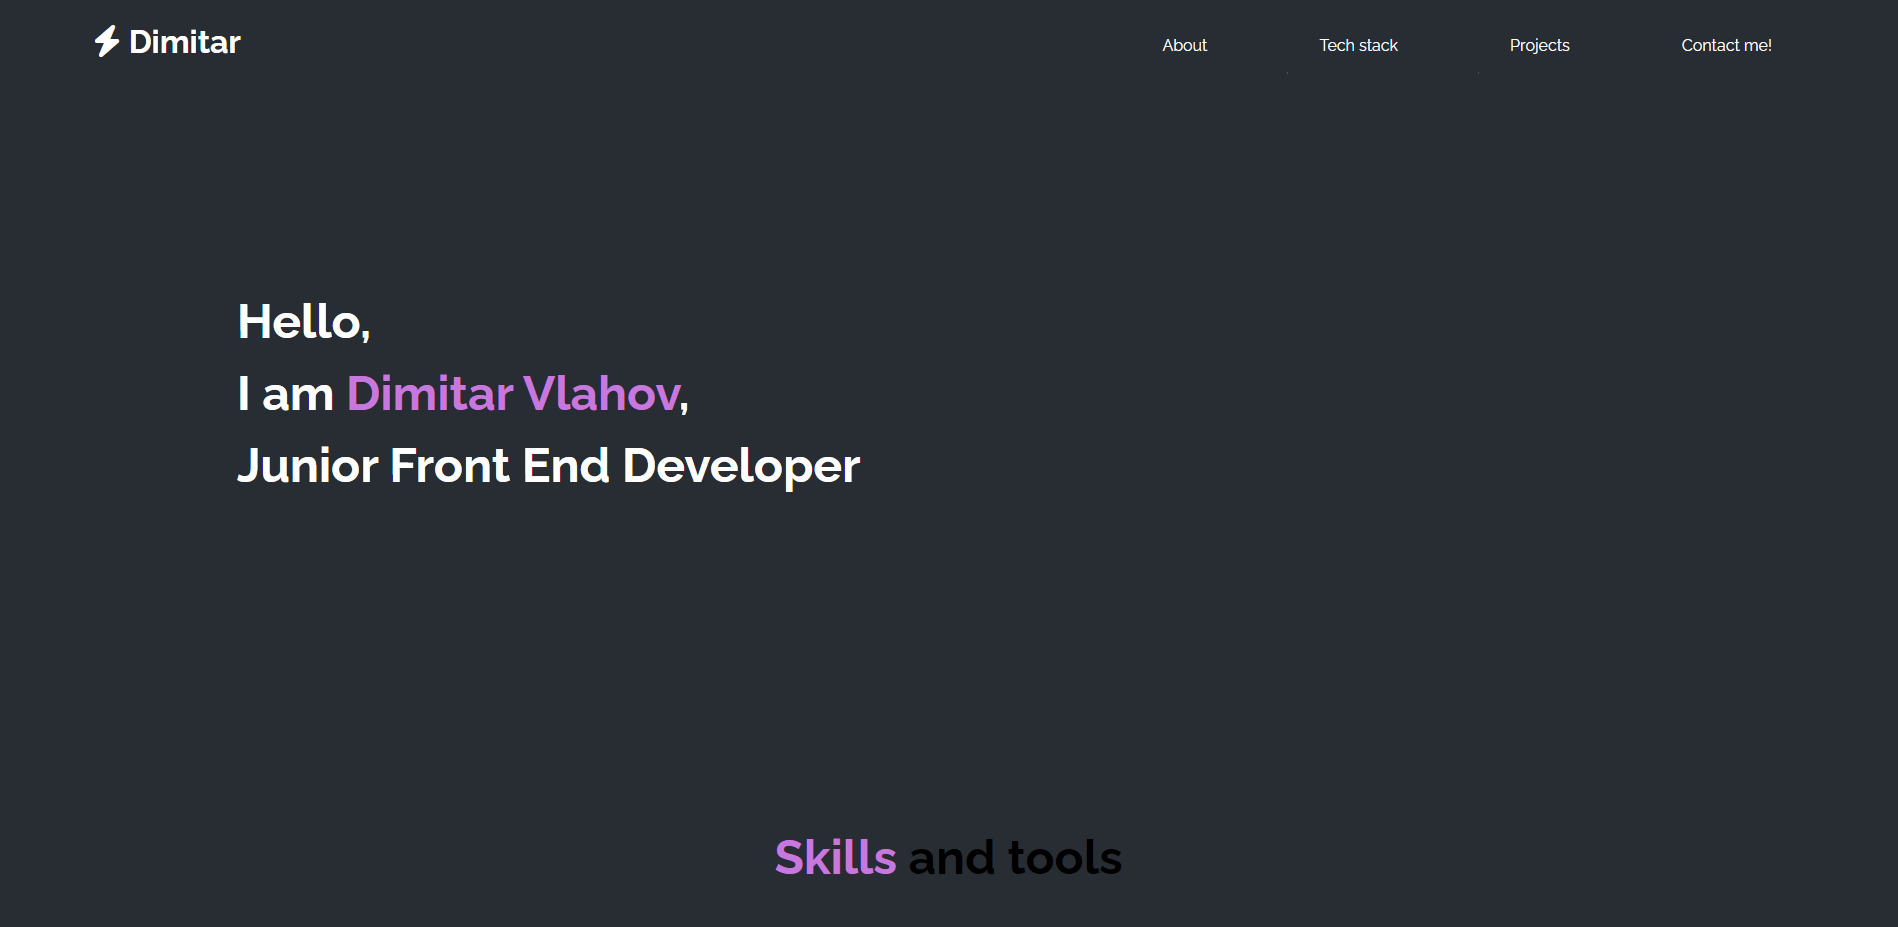
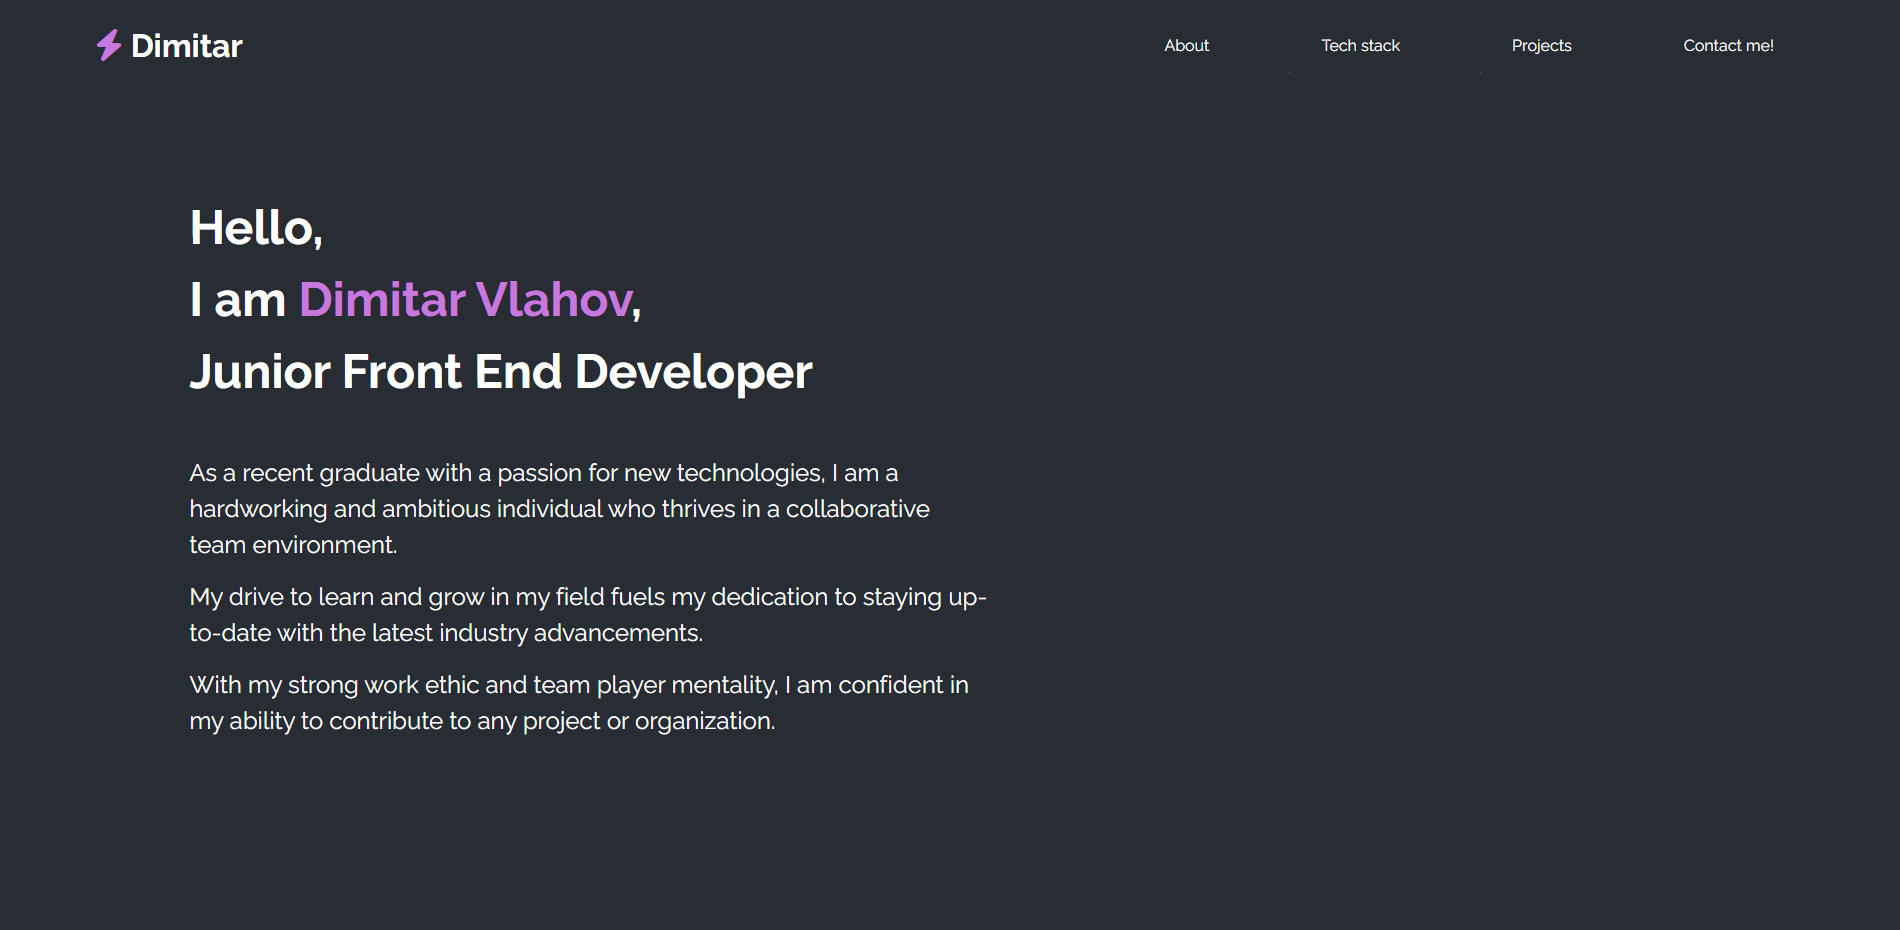
.

diff --git a/src/components/Projects.jsx b/src/components/Projects.jsx
@@ -68,7 +68,6 @@ const Projects = () => {
         }
         {showDetails === 'thirdImage' &&
           <div className={classes['info-card']}>
-            <p>Lorem ipsum dolor sit amet consectetur adipisicing elit. Quis maiores suscipit distinctio asperiores, exercitationem fugiat consequatur. Ab odio praesentium earum nisi itaque quis ullam, hic alias id, tenetur eveniet sunt.</p>
             <div className={classes['link-wrapper']}>
               <a href="https://github.com/VlahOff/PersonalPortfolio" target="_blank" className={classes.link}>View repository</a>
             </div>
@@ -76,7 +75,7 @@ const Projects = () => {
         }
         {showDetails === 'fourthImage' &&
           <div className={classes['info-card']}>
-            <p>Lorem ipsum dolor sit amet consectetur adipisicing elit. Quis maiores suscipit distinctio asperiores, exercitationem fugiat consequatur. Ab odio praesentium earum nisi itaque quis ullam, hic alias id, tenetur eveniet sunt.</p>
+            <p>This is a small and simple website for searching information about movies it has a clean and easy-to-use interface, with a search bar prominently displayed on top. Users could enter the name of a movie they are interested in and the website would display relevant information such as the plot summary, cast and crew, release date, and ratings from various sources.</p>
             <div className={classes['link-wrapper']}>
               <a href="https://github.com/VlahOff/MovieDB" target="_blank" className={classes.link}>View repository</a>
               <a href="https://movie-db-omega-red.vercel.app/" target="_blank" className={classes.link}>Live</a>

diff --git a/src/components/Hero.module.css b/src/components/Hero.module.css
@@ -23,7 +23,15 @@
   max-width: 800px;
 }
 
+.description p {
+  margin-bottom: 1rem;
+}
+
 @media screen and (max-width: 764px) {
+  .hero-wrapper {
+    margin-bottom: 10rem;
+  }
+
   .hero {
     font-size: 1.5rem;
   }
